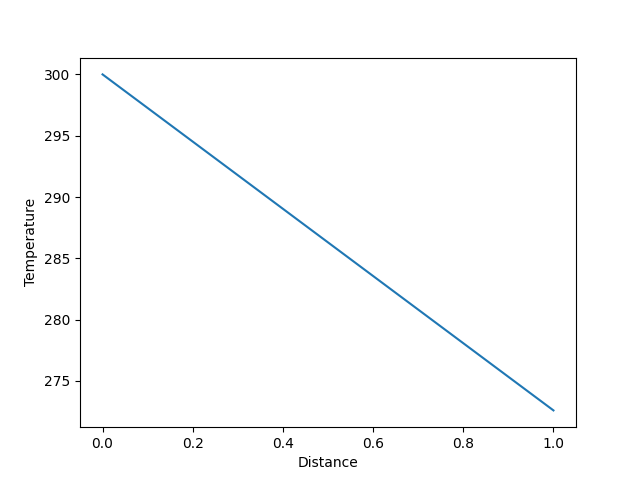
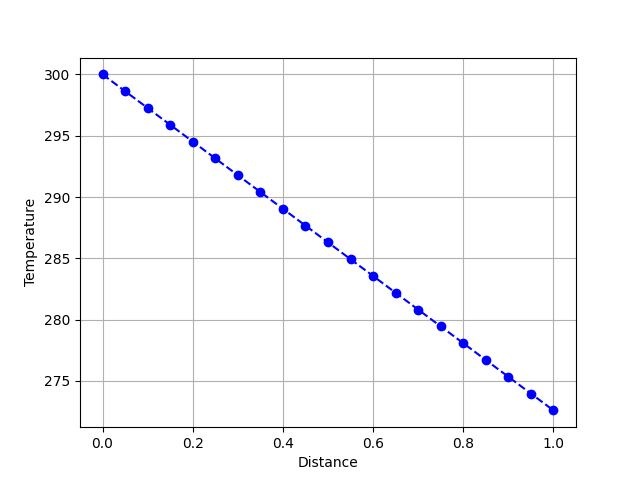
Modify heat conduction and add square root method.

diff --git a/newton_raphson/heat_cond_conv.py b/newton_raphson/heat_cond_conv.py
@@ -55,7 +55,8 @@ else:
 print('Temperature distribution')
 print(T)
 plt.figure()
-plt.plot(x, T, label='Temperature Distribution')
+plt.plot(x, T, '--bo', label='Temperature Distribution')
+plt.grid(axis='both')
 plt.ylabel('Temperature')
 plt.xlabel('Distance')
 

diff --git a/newton_raphson/SquareRoot.cpp b/newton_raphson/SquareRoot.cpp
@@ -1,0 +1,7 @@
+#include <iostream>
+
+/// @brief Square root computation using the Newton-Raphson method
+/// @return Square root of number
+auto sqroot(double number) -> const double {
+    
+}
